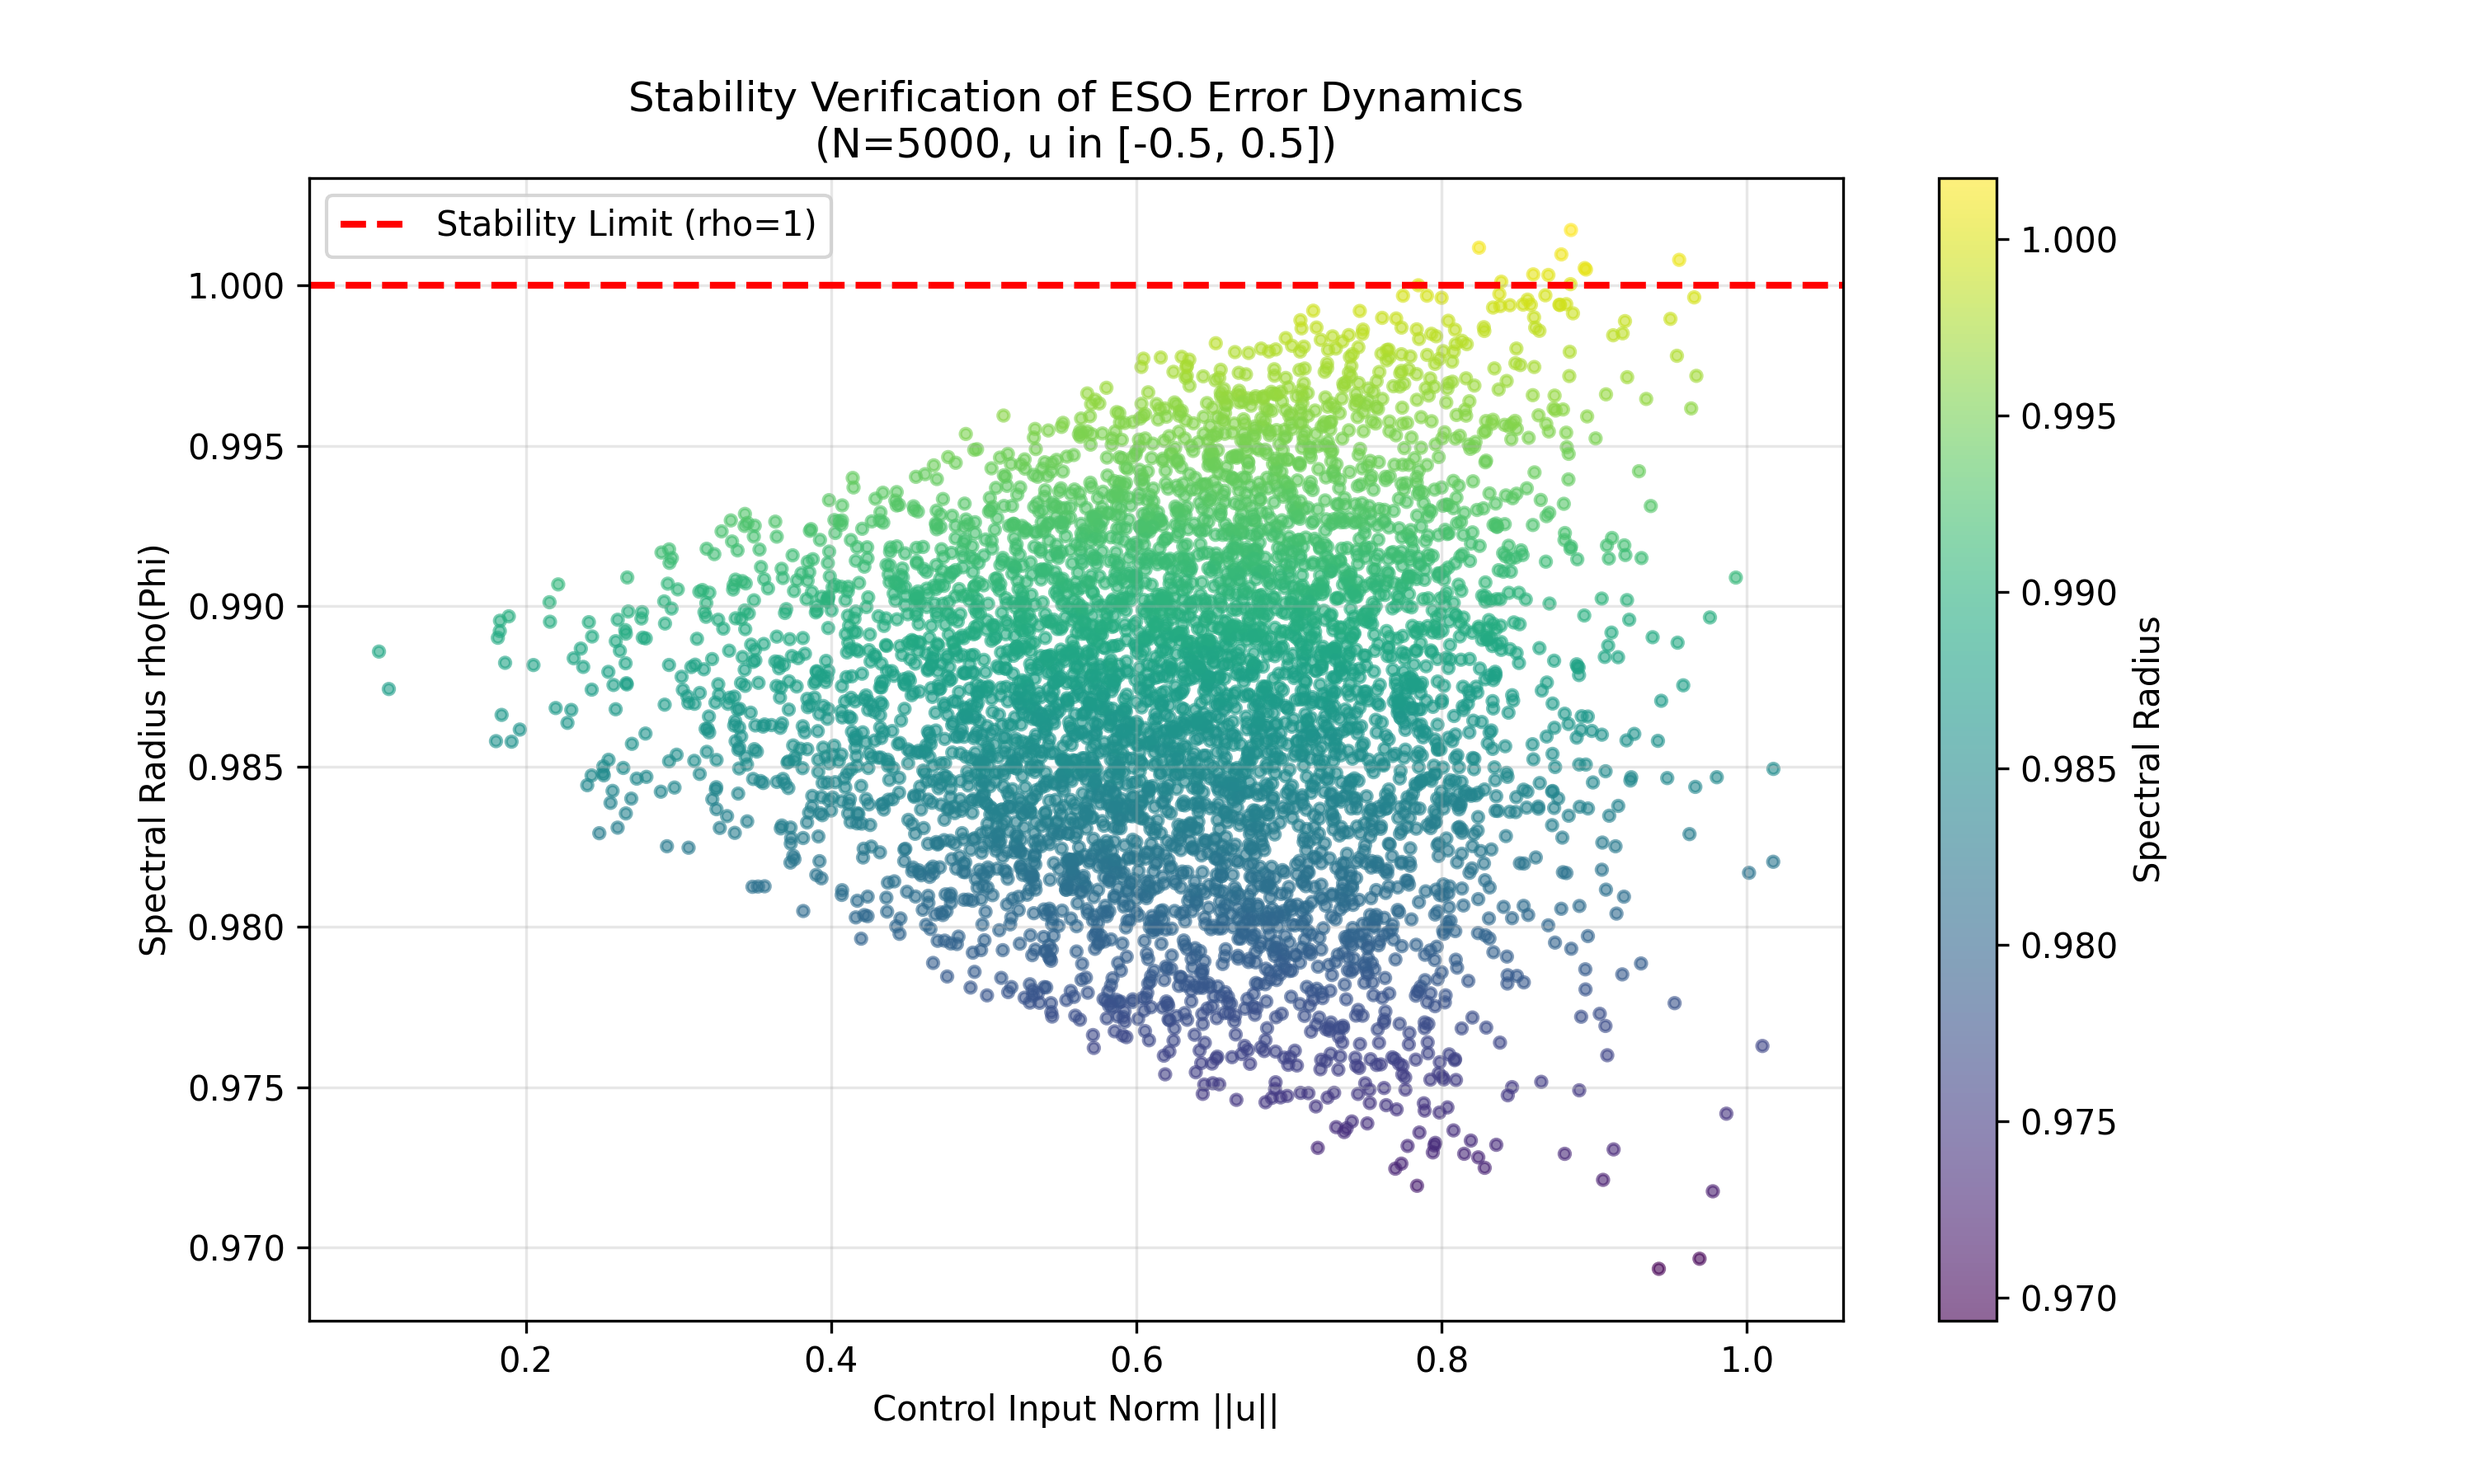
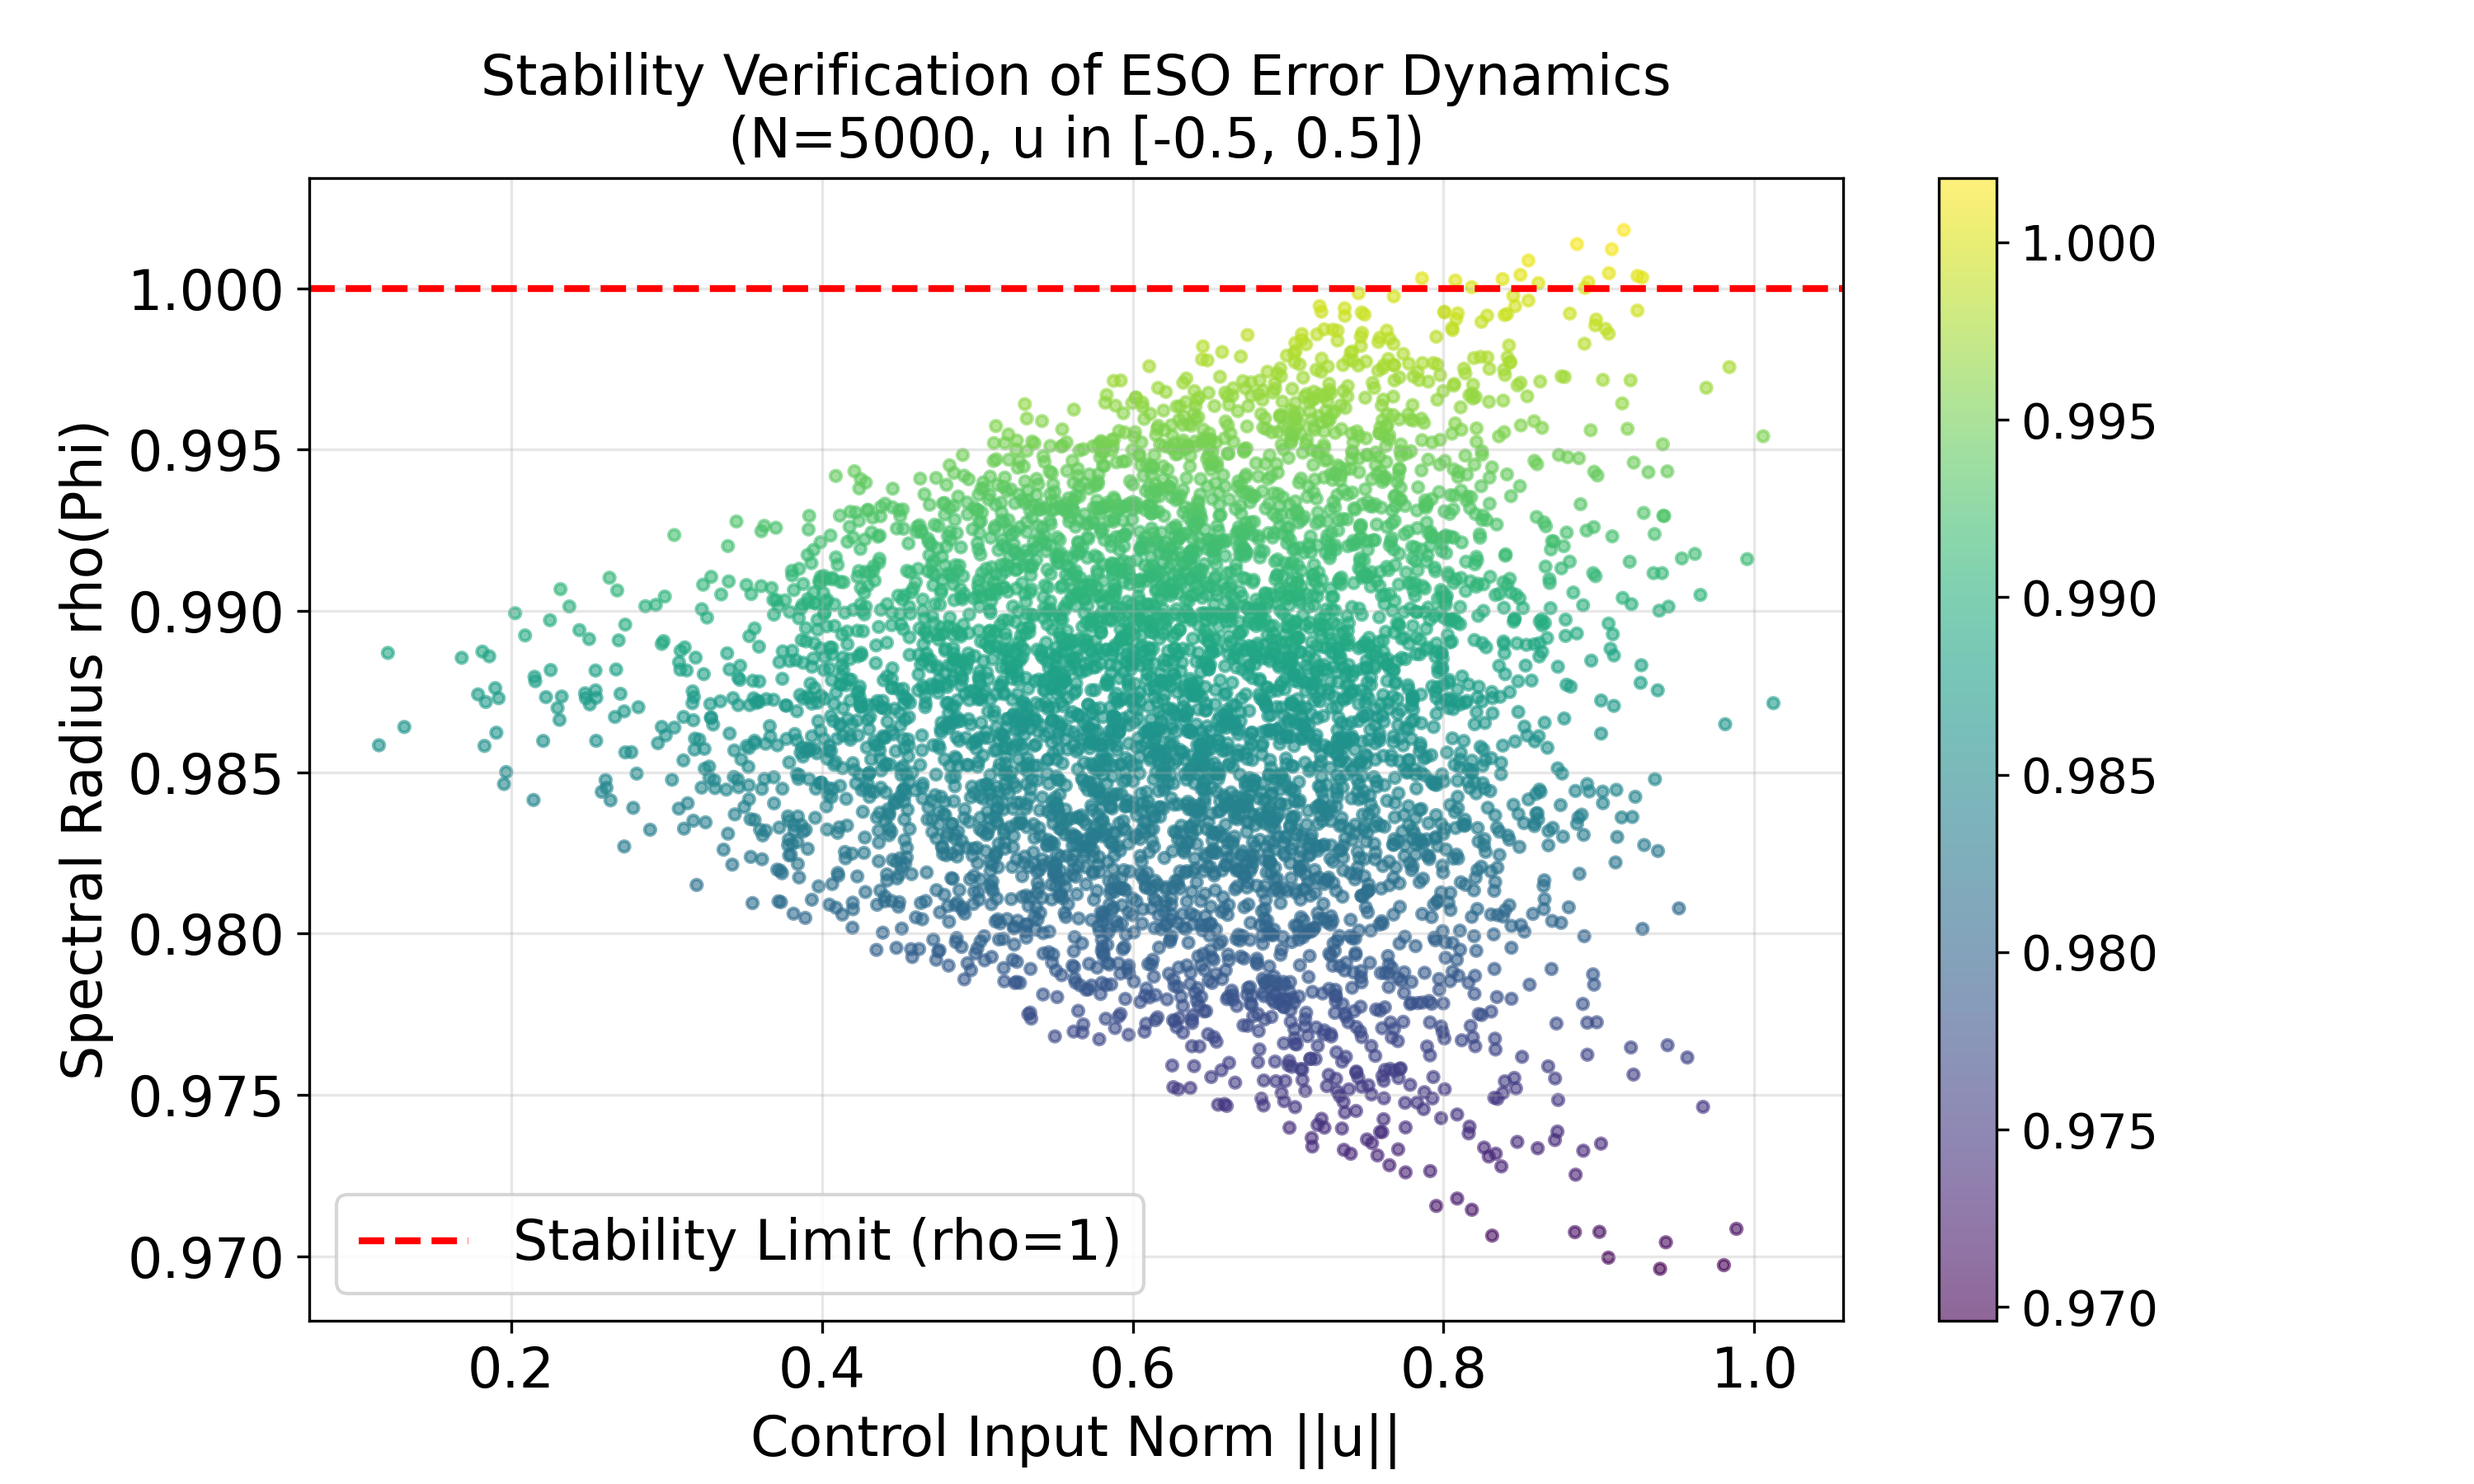
修改绘图

diff --git a/control/MPC_Controler.py b/control/MPC_Controler.py
@@ -350,13 +350,17 @@ class MPCController_KESO(MPCController):
         plt.figure(figsize=(10, 6))
         plt.scatter(u_norm_list, rho_list, alpha=0.6, s=10, c=rho_list, cmap='viridis')
         plt.axhline(1.0, color='r', linestyle='--', linewidth=2, label='Stability Limit (rho=1)')
-        plt.colorbar(label='Spectral Radius')
-        plt.xlabel('Control Input Norm ||u||')
-        plt.ylabel('Spectral Radius rho(Phi)')
-        plt.title(f'Stability Verification of ESO Error Dynamics\n(N={n_samples}, u in [{u_min}, {u_max}])')
-        plt.legend()
+        cbar = plt.colorbar()
+        # 设置侧边标签的字体大小
+        # cbar.set_label('Spectral Radius', fontsize=14)
+        # (可选) 设置侧边刻度数字(0.97, 0.98...)的字体大小
+        cbar.ax.tick_params(labelsize=14)
+        plt.xlabel('Control Input Norm ||u||',fontsize=16)
+        plt.ylabel('Spectral Radius rho(Phi)',fontsize=16)
+        plt.title(f'Stability Verification of ESO Error Dynamics\n(N={n_samples}, u in [{u_min}, {u_max}])',fontsize=16)
+        plt.legend(fontsize=16)
         plt.grid(True, alpha=0.3)
-        
+        plt.tick_params(axis='both', which='major', labelsize=16)
         # 自动保存或显示
         plt.savefig('eso_stability_check.png', dpi=300)
         plt.show()

diff --git a/DBKN_KESO.py b/DBKN_KESO.py
@@ -382,7 +382,7 @@ if __name__ == "__main__":
     load_model_path = args.output_dir + "/best_model.pt"
     model.load_state_dict(torch.load(load_model_path, map_location=torch.device('cpu')))
     MPC_Controller = MPCController_KESO(model, args)
-    # MPC_Controller.verify_eso_stability()
+    MPC_Controller.verify_eso_stability()
 
     try:
         # 实例化播放器
